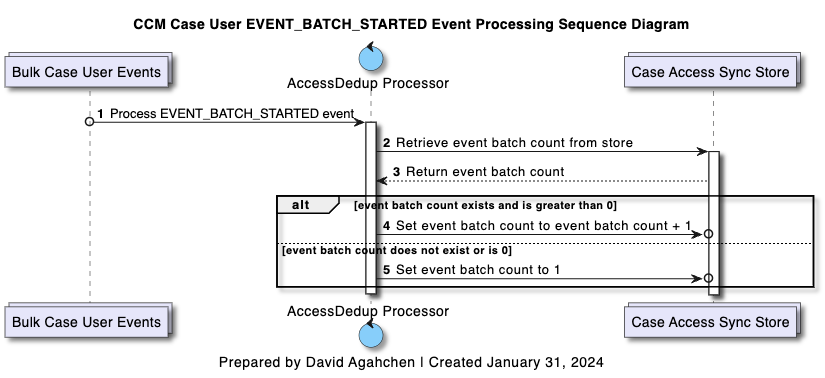
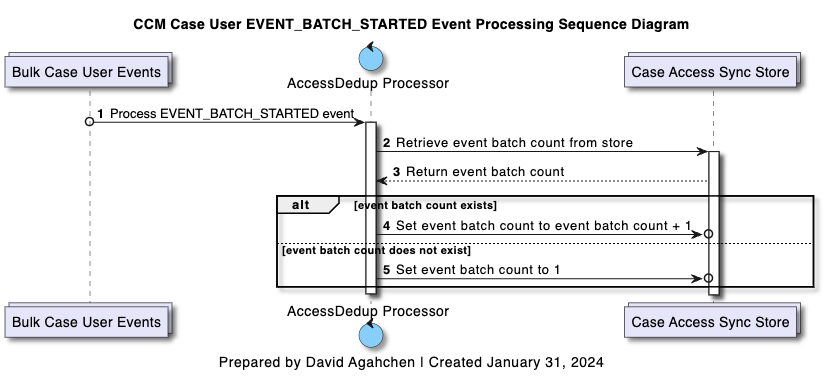
Update CaseUserEvent processing and processing sequence diagrams
This commit includes updates to the CaseUserEvent class, specifically adding new event types and modifying the event status. It also includes changes to the processing sequence diagrams for the EVENT_BATCH_STARTED and ACCESS_REMOVED_NO_DETAILS events.

Changed region(s): [[0.4545, 0.5238, 0.7576, 0.5529], [0.3636, 0.6402, 0.6364, 0.6984]]

diff --git a/src/main/java/ccm/CcmNotificationService.java b/src/main/java/ccm/CcmNotificationService.java
@@ -79,7 +79,7 @@ public class CcmNotificationService extends RouteBuilder {
     processCourtCaseCrownAssignmentChanged();
     processCaseUserEvents();
 
-    processCaseUserAccessRemoved();
+    processCaseUserAccessRemovedNoDetails();
 
     processUnknownStatus();
     preprocessAndPublishEventCreatedKPI();
@@ -1115,9 +1115,9 @@ public class CcmNotificationService extends RouteBuilder {
     String routeId = new Object() {}.getClass().getEnclosingMethod().getName();
 
     //from("kafka:{{kafka.topic.chargeassessments.name}}?groupId=ccm-notification-service")
-    from("kafka:{{kafka.topic.caseusers.name}}?groupId=ccm-notification-service&maxPollRecords=1&maxPollIntervalMs=4800000")
+    from("kafka:{{kafka.topic.bulk-caseusers.name}}?groupId=ccm-notification-service&maxPollRecords=1&maxPollIntervalMs=4800000")
     .routeId(routeId)
-    .log(LoggingLevel.INFO,"Event from Kafka {{kafka.topic.caseusers.name}} topic (offset=${headers[kafka.OFFSET]}): ${body}\n" +
+    .log(LoggingLevel.INFO,"Event from Kafka {{kafka.topic.bulk-caseusers.name}} topic (offset=${headers[kafka.OFFSET]}): ${body}\n" +
       "    on the topic ${headers[kafka.TOPIC]}\n" +
       "    on the partition ${headers[kafka.PARTITION]}\n" +
       "    with the offset ${headers[kafka.OFFSET]}\n" +
@@ -1135,8 +1135,8 @@ public class CcmNotificationService extends RouteBuilder {
     .setProperty("kpi_event_topic_offset", simple("${headers[kafka.OFFSET]}"))
     .marshal().json(JsonLibrary.Jackson, CaseUserEvent.class)
     .choice()
-      .when(header("event_status").isEqualTo(CaseUserEvent.STATUS.ACCESS_REMOVED))
-        .setProperty("kpi_component_route_name", simple("processCaseUserAccessRemoved"))
+      .when(header("event_status").isEqualTo(CaseUserEvent.STATUS.ACCESS_REMOVED_NO_DETAILS))
+        .setProperty("kpi_component_route_name", simple("processCaseUserAccessRemovedNoDetails"))
         .setProperty("kpi_status", simple(EventKPI.STATUS.EVENT_PROCESSING_STARTED.name()))
         .to("direct:publishEventKPI")
         .setBody(header("event"))
@@ -1148,7 +1148,7 @@ public class CcmNotificationService extends RouteBuilder {
     ;
   }
 
-  private void processCaseUserAccessRemoved() {
+  private void processCaseUserAccessRemovedNoDetails() {
     // use method name as route id
     String routeId = new Object() {}.getClass().getEnclosingMethod().getName();
 
@@ -1165,6 +1165,30 @@ public class CcmNotificationService extends RouteBuilder {
         .log(LoggingLevel.DEBUG,"body = '${body}'.")
         .setProperty("caseLength", jsonpath("$.case_list.length()"))
 
+        // generate the batch-started event
+        .log(LoggingLevel.DEBUG,"Creating case user 'batch-started' event")
+        .process(exchange -> {
+            CaseUserEvent event = new CaseUserEvent();
+            event.setEvent_status(CaseUserEvent.STATUS.EVENT_BATCH_STARTED.name());
+            event.setEvent_source(CaseUserEvent.SOURCE.JADE_CCM.name());
+  
+            exchange.getMessage().setBody(event, CaseUserEvent.class);
+            exchange.getMessage().setHeader("kafka.KEY", event.getEvent_key());
+          })
+        .setProperty("kpi_event_object", body())
+        .marshal().json(JsonLibrary.Jackson, CaseUserEvent.class)
+        .setProperty("business_event", body())
+        .log(LoggingLevel.DEBUG,"Generate converted business event: ${body}")
+        .to("kafka:{{kafka.topic.bulk-caseusers.name}}")
+
+        // generate event-created KPI
+        .setProperty("kpi_event_topic_name", simple("{{kafka.topic.bulk-caseusers.name}}"))
+        .setProperty("kpi_event_topic_recordmetadata", simple("${headers[org.apache.kafka.clients.producer.RecordMetadata]}"))
+        .setProperty("kpi_component_route_name", simple(routeId))
+        .setProperty("kpi_status", simple(EventKPI.STATUS.EVENT_CREATED.name()))
+        .to("direct:publishEventKPI")
+
+        // process each case
         .split()
           .jsonpathWriteAsString("$.case_list")
           //The route should not continue through the rest of the cases in the list after an exception has occurred.
@@ -1183,24 +1207,36 @@ public class CcmNotificationService extends RouteBuilder {
                 public void process(Exchange exchange) throws Exception {
                   // Insert code that gets executed *before* delegating
                   // to the next processor in the chain.
-                  CaseUserEvent event = (CaseUserEvent)exchange.getProperty("kpi_event_object", CaseUserEvent.class);
+                  CaseUserEvent originalEvent = (CaseUserEvent)exchange.getProperty("kpi_event_object", CaseUserEvent.class);
+                  CaseUserEvent event = new CaseUserEvent(CaseUserEvent.SOURCE.JADE_CCM, originalEvent);
+
                   String rccId = (String)exchange.getProperty("rcc_id", String.class);
                   event.setJustin_rcc_id(rccId);
-                  event.setEvent_source(CaseUserEvent.SOURCE.JADE_CCM.name());
 
                   exchange.getMessage().setBody(event, CaseUserEvent.class);
+                  exchange.getMessage().setHeader("kafka.KEY", event.getEvent_key());
                 }
               })
               .marshal().json(JsonLibrary.Jackson, CaseUserEvent.class)
-              .log(LoggingLevel.INFO,"Creating bulk event for ( part_id = ${header[event_key]} rcc_id = ${exchangeProperty.rcc_id} ) ...")
+              .log(LoggingLevel.INFO,"Creating an enriched " + CaseUserEvent.class.getSimpleName() + "." + CaseUserEvent.STATUS.ACCESS_REMOVED.name() + " event for ( part_id = ${header[event_key]} rcc_id = ${exchangeProperty.rcc_id} ) ...")
               .to("kafka:{{kafka.topic.bulk-caseusers.name}}")
-            .endChoice()
+
+              // generate event-created KPI
+              .setProperty("kpi_event_object", body())
+              .setProperty("kpi_event_topic_name", simple("{{kafka.topic.bulk-caseusers.name}}"))
+              .setProperty("kpi_event_topic_recordmetadata", simple("${headers[org.apache.kafka.clients.producer.RecordMetadata]}"))
+              .setProperty("kpi_component_route_name", simple(routeId))
+              .setProperty("kpi_status", simple(EventKPI.STATUS.EVENT_CREATED.name()))
+              .to("direct:publishEventKPI")
+
+              .endChoice()
             .otherwise()
-            //nothing to do here
-            .endChoice()
+              //nothing to do here
+              .endChoice()
           .end()
         .end()
 
+        // generate the batch-ended event
         .log(LoggingLevel.DEBUG,"Creating case user 'batch-ended' event")
         .process(exchange -> {
             CaseUserEvent event = new CaseUserEvent();
@@ -1215,6 +1251,8 @@ public class CcmNotificationService extends RouteBuilder {
         .setProperty("business_event", body())
         .log(LoggingLevel.DEBUG,"Generate converted business event: ${body}")
         .to("kafka:{{kafka.topic.bulk-caseusers.name}}")
+
+        // generate event-created KPI
         .setProperty("kpi_event_topic_name", simple("{{kafka.topic.bulk-caseusers.name}}"))
         .setProperty("kpi_event_topic_recordmetadata", simple("${headers[org.apache.kafka.clients.producer.RecordMetadata]}"))
         .setProperty("kpi_component_route_name", simple(routeId))

diff --git a/src/main/java/ccm/CcmJustinAdapter.java b/src/main/java/ccm/CcmJustinAdapter.java
@@ -85,6 +85,7 @@ public class CcmJustinAdapter extends RouteBuilder {
     processCrnAssignEvent();
     processUserProvEvent();
     processUserDProvEvent();
+    processBulkBatchStartedEvent();
     processBulkBatchEndedEvent();
     processReportEvents();
     processUnknownEvent();
@@ -542,31 +543,47 @@ public class CcmJustinAdapter extends RouteBuilder {
     .toD("https://{{justin.host}}/inProgressEvents?system={{justin.queue.bulk.name}}") // retrieve all "in progress" events
     //.log(LoggingLevel.DEBUG,"Processing in progress events from JUSTIN: ${body}")
 
-    // process events
+    // set initial event count
     .setProperty("numOfEvents")
       .jsonpath("$.events.length()")
     .setProperty("totalNumOfEvents", simple("${exchangeProperty.numOfEvents}"))
-    .loopDoWhile(simple("${exchangeProperty.numOfEvents} > 0"))
-      .to("direct:processJustinBulkEvents")
 
-      // check to see if there are more events to process
-      .setHeader(Exchange.HTTP_METHOD, simple("PUT"))
-      .setHeader(Exchange.CONTENT_TYPE, constant("application/json"))
-      .setHeader("Authorization").simple("Bearer " + "{{justin.token}}")
-      .toD("https://{{justin.host}}/newEventsBatch?system={{justin.queue.bulk.name}}") // mark all new events as "in progress"
-      .setProperty("numOfEvents")
-        .jsonpath("$.events.length()")
-      .process(exchange -> {
-        Integer totalNumOfEvents = exchange.getProperty("totalNumOfEvents", Integer.class);
-        Integer numOfEvents = exchange.getProperty("numOfEvents", Integer.class);
-        exchange.setProperty("totalNumOfEvents", totalNumOfEvents + numOfEvents);
-      })
-    .end()
+    // check to see if there are any events to process
     .choice()
       .when(simple("${exchangeProperty.totalNumOfEvents} > 0"))
-      .log(LoggingLevel.INFO,"Processed ${exchangeProperty.totalNumOfEvents} bulk event(s) from JUSTIN.")
+
+        // generate batch-started event
+        .log(LoggingLevel.INFO,"Start processing ${exchangeProperty.totalNumOfEvents} bulk event(s) from JUSTIN.")
+        .to("direct:processBulkBatchStartedEvent")
+        
+        // process events
+        .loopDoWhile(simple("${exchangeProperty.numOfEvents} > 0"))
+          .to("direct:processJustinBulkEvents")
+
+          // check to see if there are more events to process
+          .setHeader(Exchange.HTTP_METHOD, simple("PUT"))
+          .setHeader(Exchange.CONTENT_TYPE, constant("application/json"))
+          .setHeader("Authorization").simple("Bearer " + "{{justin.token}}")
+          .toD("https://{{justin.host}}/newEventsBatch?system={{justin.queue.bulk.name}}") // mark all new events as "in progress"
+          .setProperty("numOfEvents")
+            .jsonpath("$.events.length()")
+          .process(exchange -> {
+            Integer totalNumOfEvents = exchange.getProperty("totalNumOfEvents", Integer.class);
+            Integer numOfEvents = exchange.getProperty("numOfEvents", Integer.class);
+            exchange.setProperty("totalNumOfEvents", totalNumOfEvents + numOfEvents);
+          })
+
+          // log the count of additional events to be processed
+          .choice()
+            .when(simple("${exchangeProperty.numOfEvents} > 0"))
+              .log(LoggingLevel.INFO,"Continue processing additional ${exchangeProperty.totalNumOfEvents} bulk event(s) from JUSTIN.")
+              .endChoice()
+        .end()
+
+        // generate batch-ended event
+        .log(LoggingLevel.INFO,"Processed ${exchangeProperty.totalNumOfEvents} bulk event(s) from JUSTIN.")
         .to("direct:processBulkBatchEndedEvent")
-      .endChoice()
+        .endChoice()
     ;
   }
 
@@ -688,12 +705,6 @@ public class CcmJustinAdapter extends RouteBuilder {
           .endChoice()
         .when(header("message_event_type_cd").isEqualTo(JustinEvent.STATUS.CRN_ASSIGN))
           .to("direct:processCrnAssignEvent")
-          .endChoice()
-        .when(header("message_event_type_cd").isEqualTo(JustinEvent.STATUS.USER_PROV))
-          .to("direct:processUserProvEvent")
-          .endChoice()
-        .when(header("message_event_type_cd").isEqualTo(JustinEvent.STATUS.USER_DPROV))
-          .to("direct:processUserDProvEvent")
           .endChoice()
         .when(header("message_event_type_cd").isEqualTo(JustinEvent.STATUS.REPORT))
           .to("direct:processReportEvents")
@@ -1169,6 +1180,50 @@ public class CcmJustinAdapter extends RouteBuilder {
         .jsonpath("$.event_message_id")
       .to("direct:confirmEventProcessed")
       .end()
+    .end()
+    ;
+  }
+
+  private void processBulkBatchStartedEvent() {
+    // use method name as route id
+    String routeId = new Object() {}.getClass().getEnclosingMethod().getName();
+
+    from("direct:" + routeId)
+    .routeId(routeId)
+    .streamCaching() // https://camel.apache.org/manual/faq/why-is-my-message-body-empty.html
+    .setProperty("kpi_component_route_name", simple(routeId))
+    .log(LoggingLevel.DEBUG,"Creating case user 'batch-started' event")
+    .doTry()
+      .process(exchange -> {
+          CaseUserEvent event = new CaseUserEvent();
+          event.setEvent_status(CaseUserEvent.STATUS.EVENT_BATCH_STARTED.name());
+          event.setEvent_source(CaseUserEvent.SOURCE.JADE_CCM.name());
+
+          exchange.getMessage().setBody(event, CaseUserEvent.class);
+          exchange.getMessage().setHeader("kafka.KEY", event.getEvent_key());
+        })
+      .setProperty("kpi_event_object", body())
+      .marshal().json(JsonLibrary.Jackson, CaseUserEvent.class)
+      .setProperty("business_event", body())
+      .log(LoggingLevel.DEBUG,"Generate converted business event: ${body}")
+      .to("kafka:{{kafka.topic.bulk-caseusers.name}}")
+      .setProperty("kpi_event_topic_name", simple("{{kafka.topic.bulk-caseusers.name}}"))
+      .setProperty("kpi_event_topic_recordmetadata", simple("${headers[org.apache.kafka.clients.producer.RecordMetadata]}"))
+      .setProperty("kpi_component_route_name", simple(routeId))
+      .setProperty("kpi_status", simple(EventKPI.STATUS.EVENT_CREATED.name()))
+      .to("direct:preprocessAndPublishEventCreatedKPI")
+    .doCatch(Exception.class)
+      .log(LoggingLevel.DEBUG,"General Exception thrown.")
+      .log(LoggingLevel.DEBUG,"${exception}")
+      .setProperty("error_event_object", body())
+      .setProperty("kpi_event_topic_name",simple("{{kafka.topic.general-errors.name}}"))
+      .to("direct:publishJustinEventKPIError")
+      .process(new Processor() {
+        public void process(Exchange exchange) throws Exception {
+
+          throw exchange.getException();
+        }
+      })
     .end()
     ;
   }

diff --git a/ccm-accessdedup-processor/src/main/java/CaseUserEventHandler.java b/ccm-accessdedup-processor/src/main/java/CaseUserEventHandler.java
@@ -50,6 +50,8 @@ public class CaseUserEventHandler extends AbstractProcessor<String, String> {
     private String caseAccessSyncStoreName;
     private String appNameProperCase;
 
+    private static final String EVENT_BATCH_COUNT_STRING = "event_batch_count";
+
     @Override
     public void init(ProcessorContext context) {
         super.init(context);
@@ -94,9 +96,10 @@ public class CaseUserEventHandler extends AbstractProcessor<String, String> {
                 .readValue(value, CaseUserEvent.class);
 
             // skip if event is not in scope
-            if (CaseUserEvent.STATUS.ACCESS_ADDED.name().equals(caseUserEvent.getEvent_status()) ||
-                CaseUserEvent.STATUS.ACCESS_REMOVED.name().equals(caseUserEvent.getEvent_status()) ||
-                CaseUserEvent.STATUS.EVENT_BATCH_ENDED.name().equals(caseUserEvent.getEvent_status())) {
+            if (CaseUserEvent.STATUS.EVENT_BATCH_STARTED.name().equals(caseUserEvent.getEvent_status()) ||
+                CaseUserEvent.STATUS.EVENT_BATCH_ENDED.name().equals(caseUserEvent.getEvent_status()) || 
+                CaseUserEvent.STATUS.ACCESS_ADDED.name().equals(caseUserEvent.getEvent_status()) ||
+                CaseUserEvent.STATUS.ACCESS_REMOVED.name().equals(caseUserEvent.getEvent_status())) {
                 // This is an in-scope event.  Process it.
             } else {
                 // This is a out-of-scope event.  Ignore it.
@@ -110,26 +113,59 @@ public class CaseUserEventHandler extends AbstractProcessor<String, String> {
             // Produce a KPI event for the case user event.
             produceEventKpi(key, value, null, EventKPI.STATUS.EVENT_PROCESSING_STARTED, context.topic(), context.offset());
 
-            if (CaseUserEvent.STATUS.EVENT_BATCH_ENDED.name().equals(caseUserEvent.getEvent_status())) {
-                // End of the batch is detected; forward all stored events and clear the store.
+            if (CaseUserEvent.STATUS.EVENT_BATCH_STARTED.name().equals(caseUserEvent.getEvent_status())) {
+                // Start of the batch is detected; update batch count in the store.
 
-                LOG.info("'End of event batch' message received.  Forwarding and clearing derived charge assessment event messages in {}...", caseAccessSyncStoreName);
+                LOG.info("'Start of event batch' message received.");
 
-                AtomicLong event_count = new AtomicLong(0);
+                // Get the current batch count from the store.
+                String batchCountString = accessdedupStore.get(EVENT_BATCH_COUNT_STRING);
+                AtomicLong batchCount = new AtomicLong((batchCountString != null) ? Long.parseLong(batchCountString) : 0);
 
-                accessdedupStore.all().forEachRemaining(keyValue -> {
-                    event_count.incrementAndGet();
-                    LOG.info("Forwarding from store: charge assessment {}.", keyValue.key);
+                // Increment the batch count and store it.
+                batchCount++;
+                accessdedupStore.put(EVENT_BATCH_COUNT_STRING, batchCount.toString());
 
-                    context.forward(keyValue.key, keyValue.value, 
-                        CaseUserEventHandler.util_getToplogySinkName(bulkChargeAssessmentsTopicName));
-                });
+                LOG.info("Batch count incremented to {}.", batchCount.toString());
 
-                accessdedupStore.all().forEachRemaining(keyValue -> {
-                    accessdedupStore.delete(keyValue.key);
-                });
+            } else if (CaseUserEvent.STATUS.EVENT_BATCH_ENDED.name().equals(caseUserEvent.getEvent_status())) {
+                // End of the batch is detected; update batch count in the store.
+                // If this is the last batch, forward all stored events and clear the store.
 
-                LOG.info("Store cleared and {} event{} forwarded.", event_count.get(), event_count.get() == 1 ? "" : "s");
+                LOG.info("'End of event batch' message received.");
+
+                // Get the current batch count from the store.
+
+                String batchCountString = accessdedupStore.get(EVENT_BATCH_COUNT_STRING);
+                AtomicLong batchCount = new AtomicLong((batchCountString != null) ? Long.parseLong(batchCountString) : 0);
+
+                // If this is the last batch, forward all stored events and clear the store.
+                if (batchCount.get() > 1) {
+                    // This is not the last batch.  Do nothing.
+
+                    LOG.info("This is not the last batch.  {} batch{} remaining.", batchCount.toString(), batchCount.get() == 1 ? "" : "es.  Do nothing.");
+                    return;
+                } else {
+                    // This is the last batch.  Forward all stored events and clear the store.
+
+                    LOG.info("This is the last batch.  Forwarding all stored events and clearing the store.");
+
+                    AtomicLong event_count = new AtomicLong(0);
+
+                    accessdedupStore.all().forEachRemaining(keyValue -> {
+                        event_count.incrementAndGet();
+                        LOG.info("Forwarding from store: charge assessment {}.", keyValue.key);
+
+                        context.forward(keyValue.key, keyValue.value, 
+                            CaseUserEventHandler.util_getToplogySinkName(bulkChargeAssessmentsTopicName));
+                    });
+
+                    accessdedupStore.all().forEachRemaining(keyValue -> {
+                        accessdedupStore.delete(keyValue.key);
+                    });
+
+                    LOG.info("Store cleared and {} event{} forwarded.", event_count.get(), event_count.get() == 1 ? "" : "s");
+                }
             } else if (accessdedupStore.get(caseUserEvent.getJustin_rcc_id()) == null) {
                 // This is for a new charge assessment.  Create a new charge assessment event and store it.
 

diff --git a/src/main/java/ccm/models/common/event/CaseUserEvent.java b/src/main/java/ccm/models/common/event/CaseUserEvent.java
@@ -36,6 +36,8 @@ public class CaseUserEvent extends BaseEvent {
     ACCOUNT_CREATED,
     ACCESS_ADDED,
     ACCESS_REMOVED,
+    ACCESS_REMOVED_NO_DETAILS,
+    EVENT_BATCH_STARTED,
     EVENT_BATCH_ENDED;
   }
 
@@ -57,7 +59,7 @@ public class CaseUserEvent extends BaseEvent {
         setEvent_status(STATUS.ACCESS_ADDED.toString());
         break;
       case USER_DPROV:
-        setEvent_status(STATUS.ACCESS_REMOVED.toString());
+        setEvent_status(STATUS.ACCESS_REMOVED_NO_DETAILS.toString());
         break;
       default:
         // unknown status
